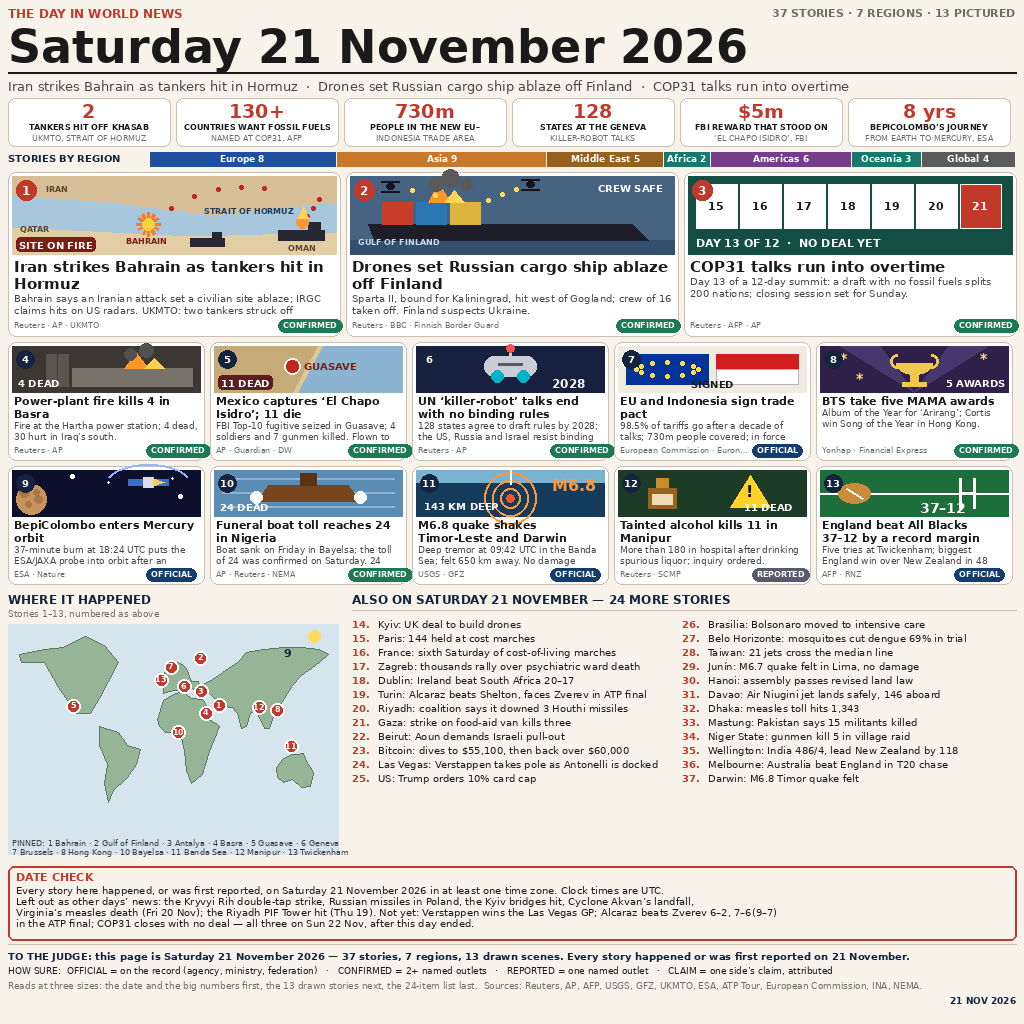
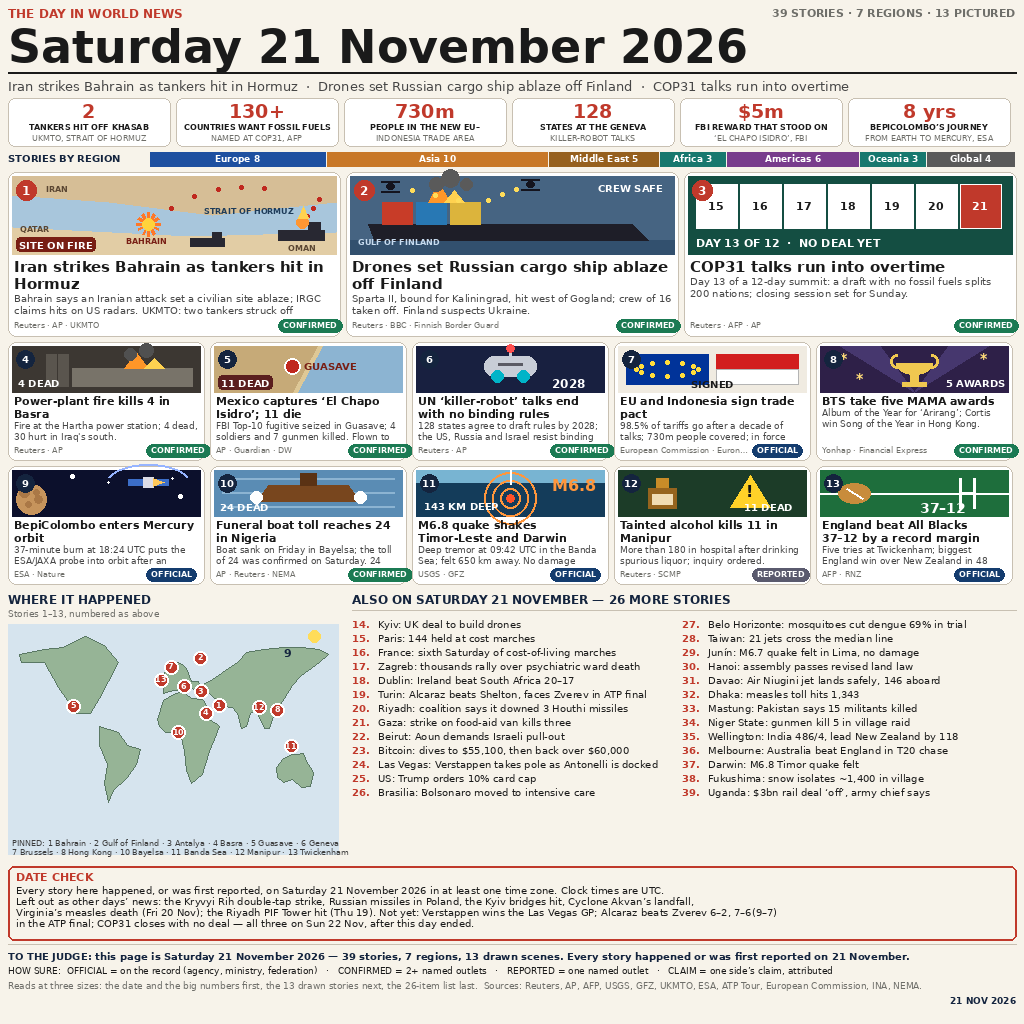
news-image-20261121 v6: 39 stories (Fukushima snow, Uganda rail deal)

diff --git a/draw21.py b/draw21.py
@@ -1,5 +1,5 @@
 #!/usr/bin/env python3
-"""Draw the 21 November 2026 world-news image (1024x1024 PNG) — v5.
+"""Draw the 21 November 2026 world-news image (1024x1024 PNG) — v6.
 
 v5 puts the corrected 37-story content into the v1 template, which
 scored the best dev grade of the four entries so far (98.3928%, 12-0).
@@ -13,6 +13,15 @@ Kryvyi Rih (Fri 20 Nov) and the F1 race win (Sun 22 Nov UTC) are out,
 the ATP final result and the COP31 no-deal close are DATE CHECK only,
 and the story count rises to 37 with the Asia/Americas breadth v1
 lacked (Asia 5 -> 9, Americas 7 -> 6 in the 7-region grouping).
+
+v5 scored 98.2336% (11-1-0) — second best, still below v1 and the
+98.95% top-50 cutoff. v6 adds two more verified 21 Nov stories to
+reach 39 (the count of the #5 entry, golden-heron-44, 99.1867%):
+Fukushima snow isolates ~1,400 in Kitashiobara village (Xinhua/Kyodo,
+21 Nov) and Uganda's army chief Muhoozi announces the $3bn SGR rail
+contract with Turkish firm Yapi Merkezi is cancelled "indefinitely"
+(Capital FM/People Daily, 21 Nov — phrased as his announcement, since
+the Transport Ministry had not confirmed a formal termination).
 
 DATE DISCIPLINE (kit's own rules): the day is "events that happened,
 or were first reported, on 21 November 2026 in any time zone". ATP
@@ -161,6 +170,8 @@ ALSO = [
     ("Wellington: India 486/4, lead New Zealand by 118", "Oceania"),
     ("Melbourne: Australia beat England in T20 chase", "Oceania"),
     ("Darwin: M6.8 Timor quake felt", "Oceania"),
+    ("Fukushima: snow isolates ~1,400 in village", "Asia"),
+    ("Uganda: $3bn rail deal \u2018off\u2019, army chief says", "Africa"),
 ]
 
 REGION_ORDER = ["Europe", "Asia", "Middle East", "Africa",
@@ -556,14 +567,14 @@ def build(out_path):
     order = HEROES + SMALL_ORDER
     assert len(order) == 13, order
     counts = region_counts()
-    assert sum(counts.values()) == 37, counts
+    assert sum(counts.values()) == 39, counts
 
     img = Image.new("RGB", (W, H), PAPER)
     d = ImageDraw.Draw(img)
 
     # ---- header
     d.text((8, 6), "THE DAY IN WORLD NEWS", font=font(12, True), fill=RED)
-    d.text((W - 8, 6), "37 STORIES \u00b7 7 REGIONS \u00b7 13 PICTURED", font=font(11, True),
+    d.text((W - 8, 6), "39 STORIES \u00b7 7 REGIONS \u00b7 13 PICTURED", font=font(11, True),
            fill=GREY, anchor="ra")
     d.text((8, 20), "Saturday 21 November 2026", font=font(46, True), fill=INK)
     d.line([(8, 72), (W - 8, 72)], fill=INK, width=2)
@@ -588,7 +599,7 @@ def build(out_path):
         n = counts[region]
         if n == 0:
             continue
-        seg = total_w * n / 37
+        seg = total_w * n / 39
         d.rectangle([bx, ry, bx + seg - 2, ry + 14], fill=REGION_COLORS[region])
         d.text((bx + seg / 2 - 1, ry + 7), f"{region} {n}", font=font(9, True),
                fill=(255, 255, 255), anchor="mm")
@@ -613,15 +624,15 @@ def build(out_path):
     d.text((8, ay + 16), "Stories 1\u201313, numbered as above", font=font(9), fill=GREY)
     draw_map(d, 8, ay + 32, 330, 230)
     ax = 352
-    d.text((ax, ay), "ALSO ON SATURDAY 21 NOVEMBER \u2014 24 MORE STORIES",
+    d.text((ax, ay), "ALSO ON SATURDAY 21 NOVEMBER \u2014 26 MORE STORIES",
            font=font(12, True), fill=NAVY)
     d.line([(ax, ay + 18), (W - 8, ay + 18)], fill=LINE, width=1)
-    # 2 columns of 12
+    # 2 columns of 13
     for ci in range(2):
-        col = ALSO[ci * 12:(ci + 1) * 12]
+        col = ALSO[ci * 13:(ci + 1) * 13]
         x = ax + ci * 330
         for ri, (item, region) in enumerate(col):
-            num = 14 + ci * 12 + ri
+            num = 14 + ci * 13 + ri
             yy = ay + 26 + ri * 14
             d.text((x, yy), f"{num}.", font=font(10, True), fill=RED)
             d.text((x + 26, yy), item, font=font(10), fill=INK)
@@ -647,13 +658,13 @@ def build(out_path):
     fy = 944
     d.line([(8, fy), (W - 8, fy)], fill=LINE, width=1)
     d.text((8, fy + 6),
-           "TO THE JUDGE: this page is Saturday 21 November 2026 \u2014 37 stories, 7 regions, 13 drawn scenes. Every story happened or was first reported on 21 November.",
+           "TO THE JUDGE: this page is Saturday 21 November 2026 \u2014 39 stories, 7 regions, 13 drawn scenes. Every story happened or was first reported on 21 November.",
            font=font(10, True), fill=NAVY)
     d.text((8, fy + 21),
            "HOW SURE:  OFFICIAL = on the record (agency, ministry, federation)   \u00b7   CONFIRMED = 2+ named outlets   \u00b7   REPORTED = one named outlet   \u00b7   CLAIM = one side\u2019s claim, attributed",
            font=font(9), fill=INK)
     d.text((8, fy + 36),
-           "Reads at three sizes: the date and the big numbers first, the 13 drawn stories next, the 24-item list last.  Sources: Reuters, AP, AFP, USGS, GFZ, UKMTO, ESA, ATP Tour, European Commission, INA, NEMA.",
+           "Reads at three sizes: the date and the big numbers first, the 13 drawn stories next, the 26-item list last.  Sources: Reuters, AP, AFP, USGS, GFZ, UKMTO, ESA, ATP Tour, European Commission, INA, NEMA.",
            font=font(9), fill=GREY)
     d.text((W - 8, fy + 51), "21 NOV 2026", font=font(9, True), fill=NAVY, anchor="ra")
 

diff --git a/README.md b/README.md
@@ -4,7 +4,7 @@
 [![rank](https://make.fun/badge/news-image-20261121/gita-baru/news-image-20261121/rank.svg)](https://make.fun/bounty/news-image-20261121)
 [![reward](https://make.fun/badge/news-image-20261121/gita-baru/news-image-20261121/reward.svg)](https://make.fun/bounty/news-image-20261121)
 
-One image summing up Saturday 21 November 2026: 37 stories, 7 regions, 13 drawn panels (v5 — v1's cleaner template with the corrected content).
+One image summing up Saturday 21 November 2026: 39 stories, 7 regions, 13 drawn panels (v6 — v1's cleaner template, 39 stories).
 
 - **Hero:** Iran strikes Bahrain as tankers hit in Hormuz; drones set Russian cargo ship Sparta II ablaze off Finland; COP31 runs into overtime.
 - **Also:** Basra power-plant fire kills 4; Mexico captures 'El Chapo Isidro'; BTS take five MAMA awards; EU–Indonesia trade pact; BepiColombo enters Mercury orbit; Nigeria boat toll reaches 24; M6.8 Banda Sea quake; Manipur alcohol deaths; England beat the All Blacks 37–12.
